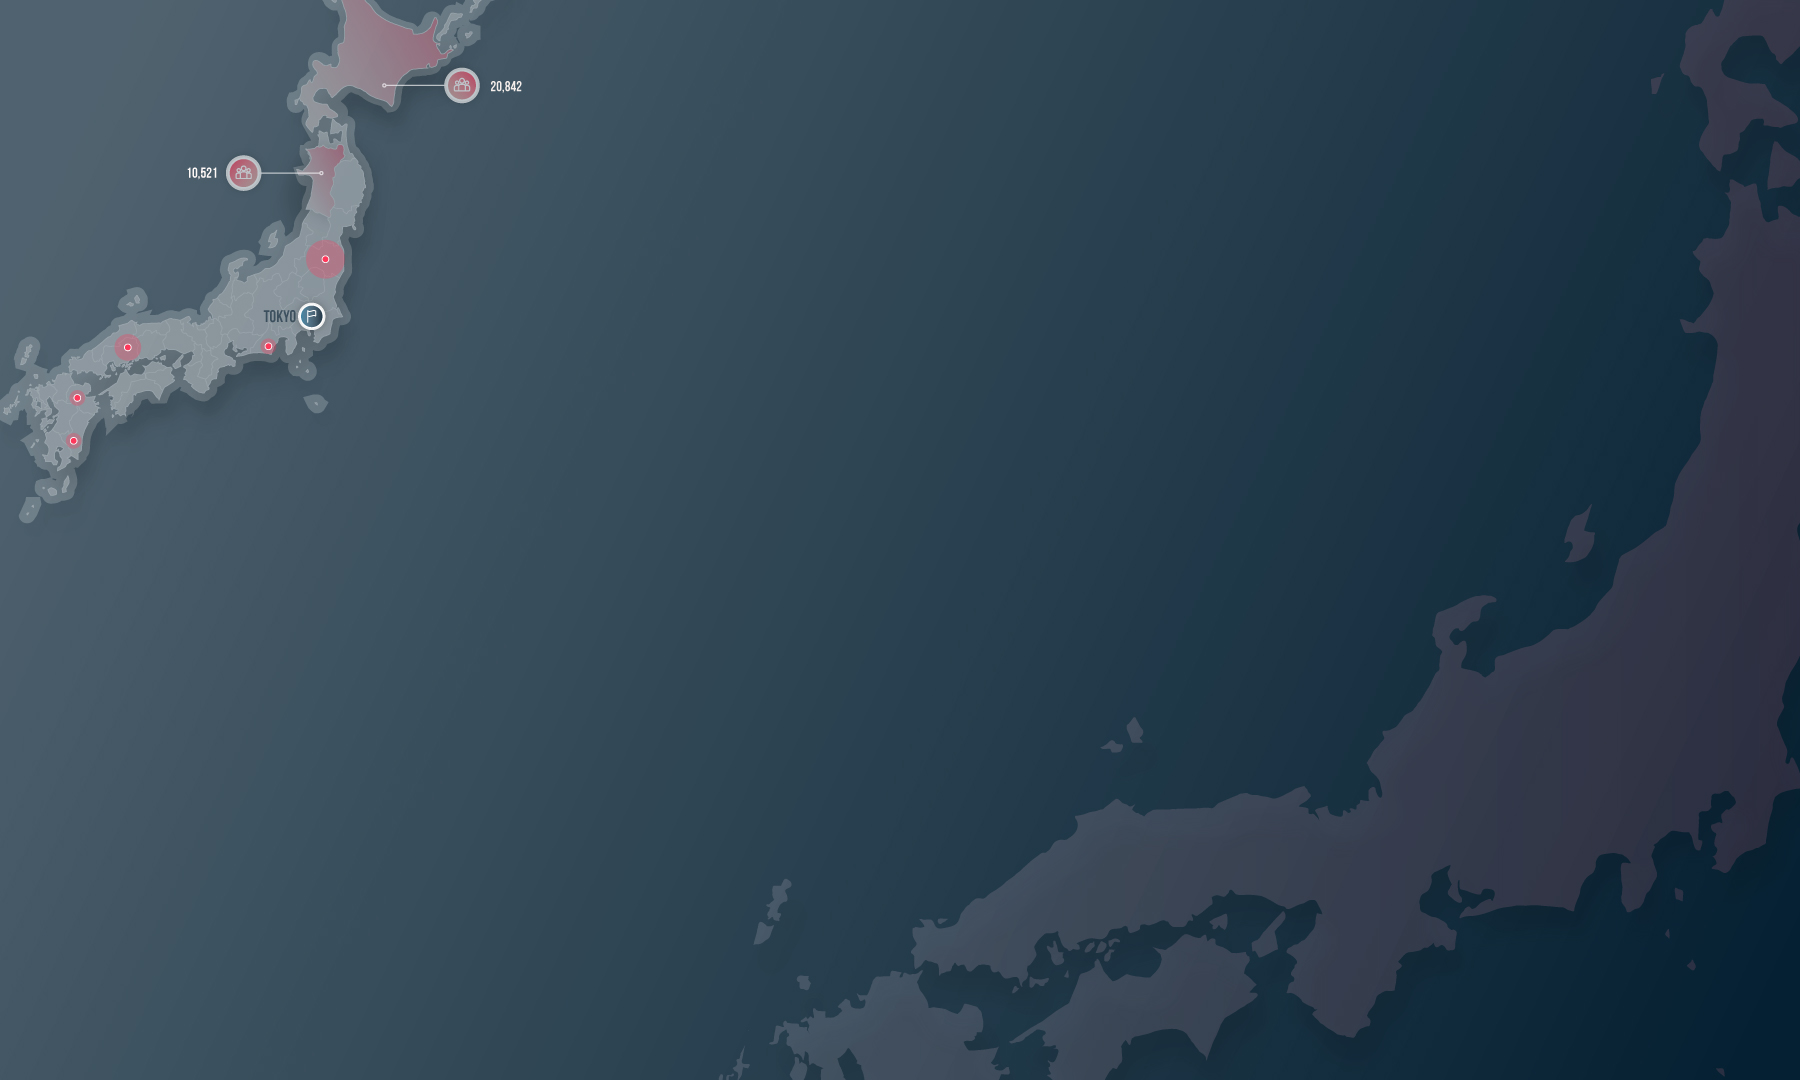
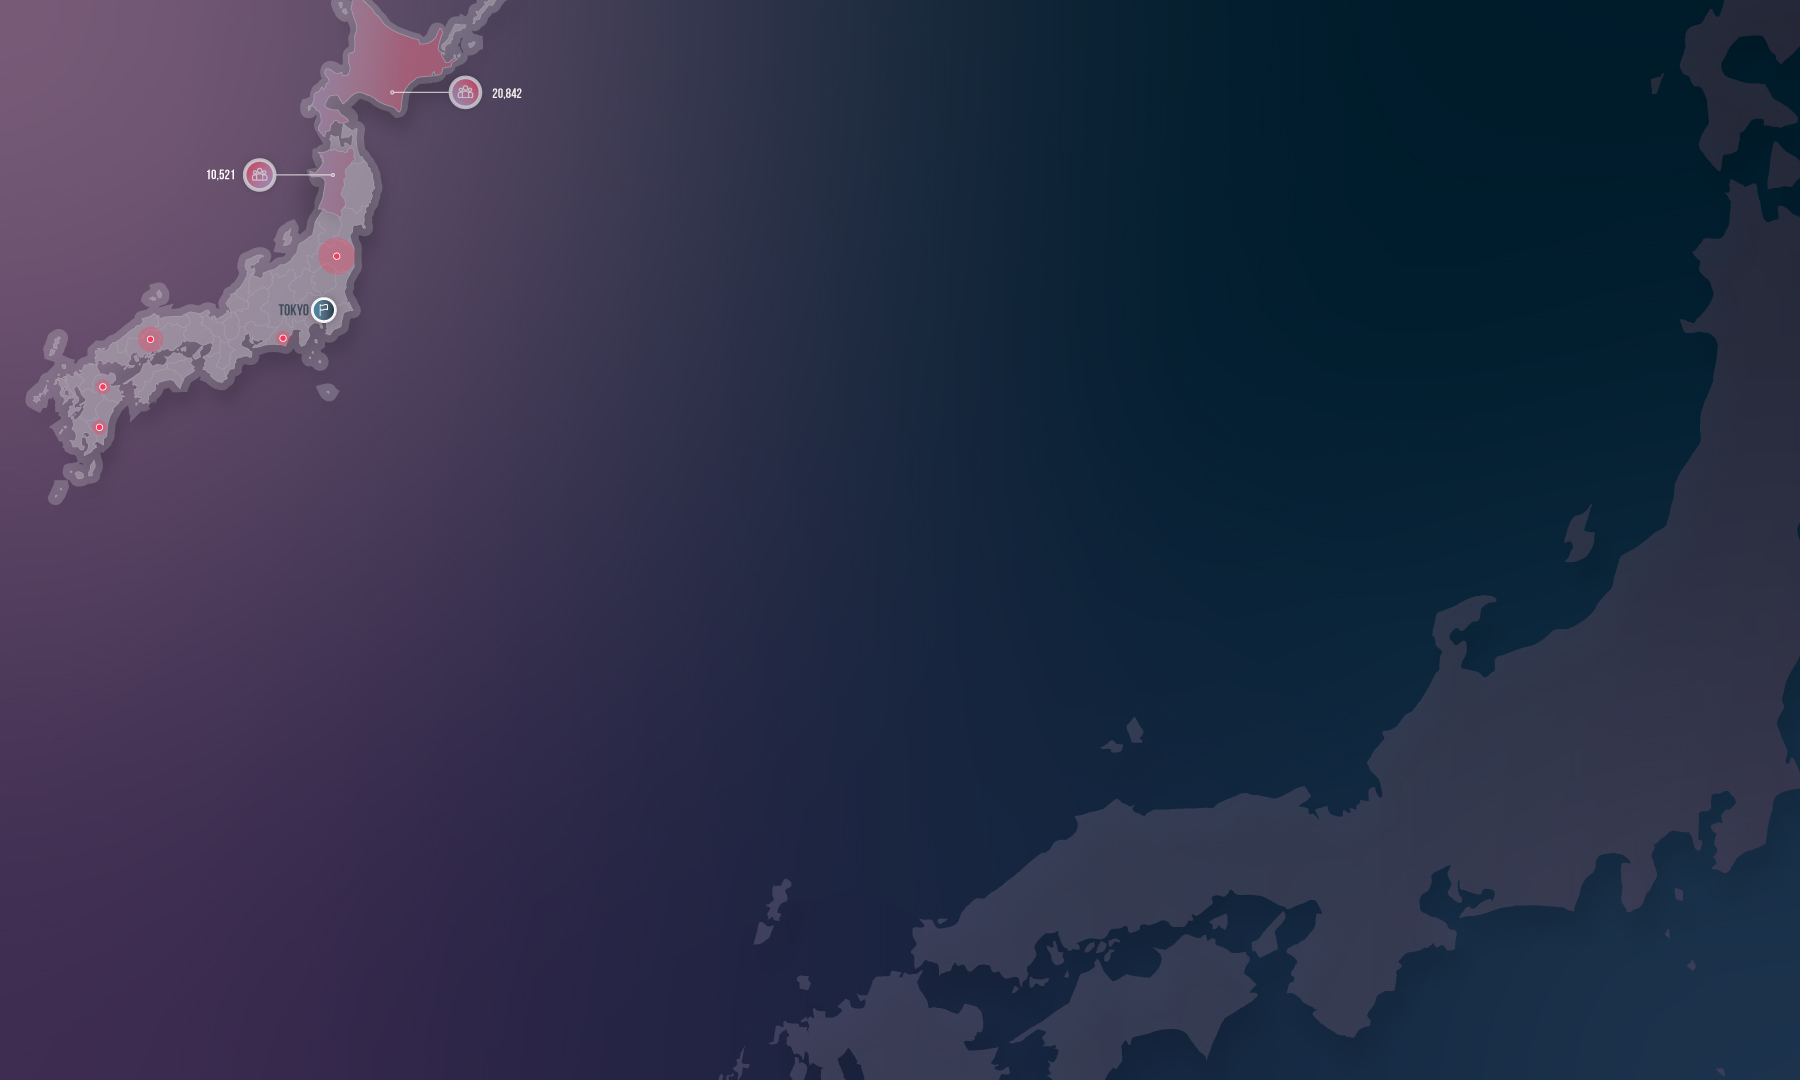
bg

diff --git a/asuka/assets/scss/_feature.scss b/asuka/assets/scss/_feature.scss
@@ -98,7 +98,7 @@
 ============================================================================================ */
 .latest_project_area {
   overflow: hidden;
-  background: url(../images/japan_map.png) no-repeat center top / cover;
+  background: url(../images/japan_map.jpg?v=202310) no-repeat center top / cover;
   @media (max-width: 767px){
     background: url(../images/japan_map_m.png) no-repeat right top / cover;
   }

diff --git a/asuka/assets/css/style.css b/asuka/assets/css/style.css
@@ -1017,7 +1017,7 @@ button:focus {
 ============================================================================================ */
 .latest_project_area {
   overflow: hidden;
-  background: url(../images/japan_map.png) no-repeat center top/cover;
+  background: url(../images/japan_map.jpg?v=202310) no-repeat center top/cover;
 }
 @media (max-width: 767px) {
   .latest_project_area {
